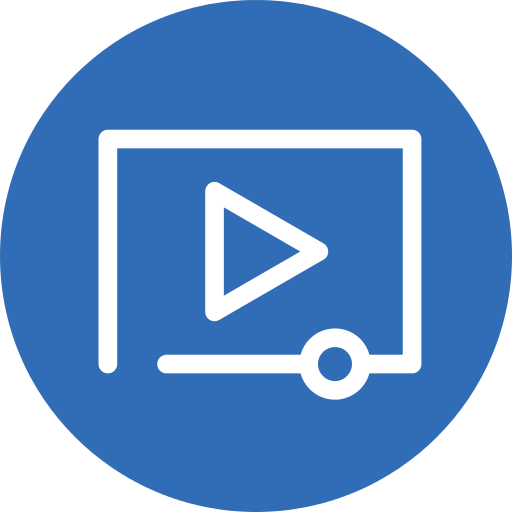
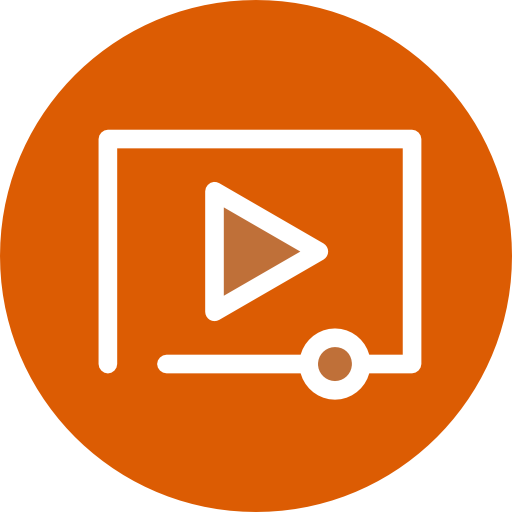
Change colors, add screenshot

diff --git a/README.md b/README.md
@@ -2,6 +2,8 @@
 A Media remote that controls volume using the ALSA mixer rather than the media keys.
 This is useful in situations where the media keys don't work.
 
+![screenshot](screen.png)
+
 ## Features
 Same as the default Media remote.
 
